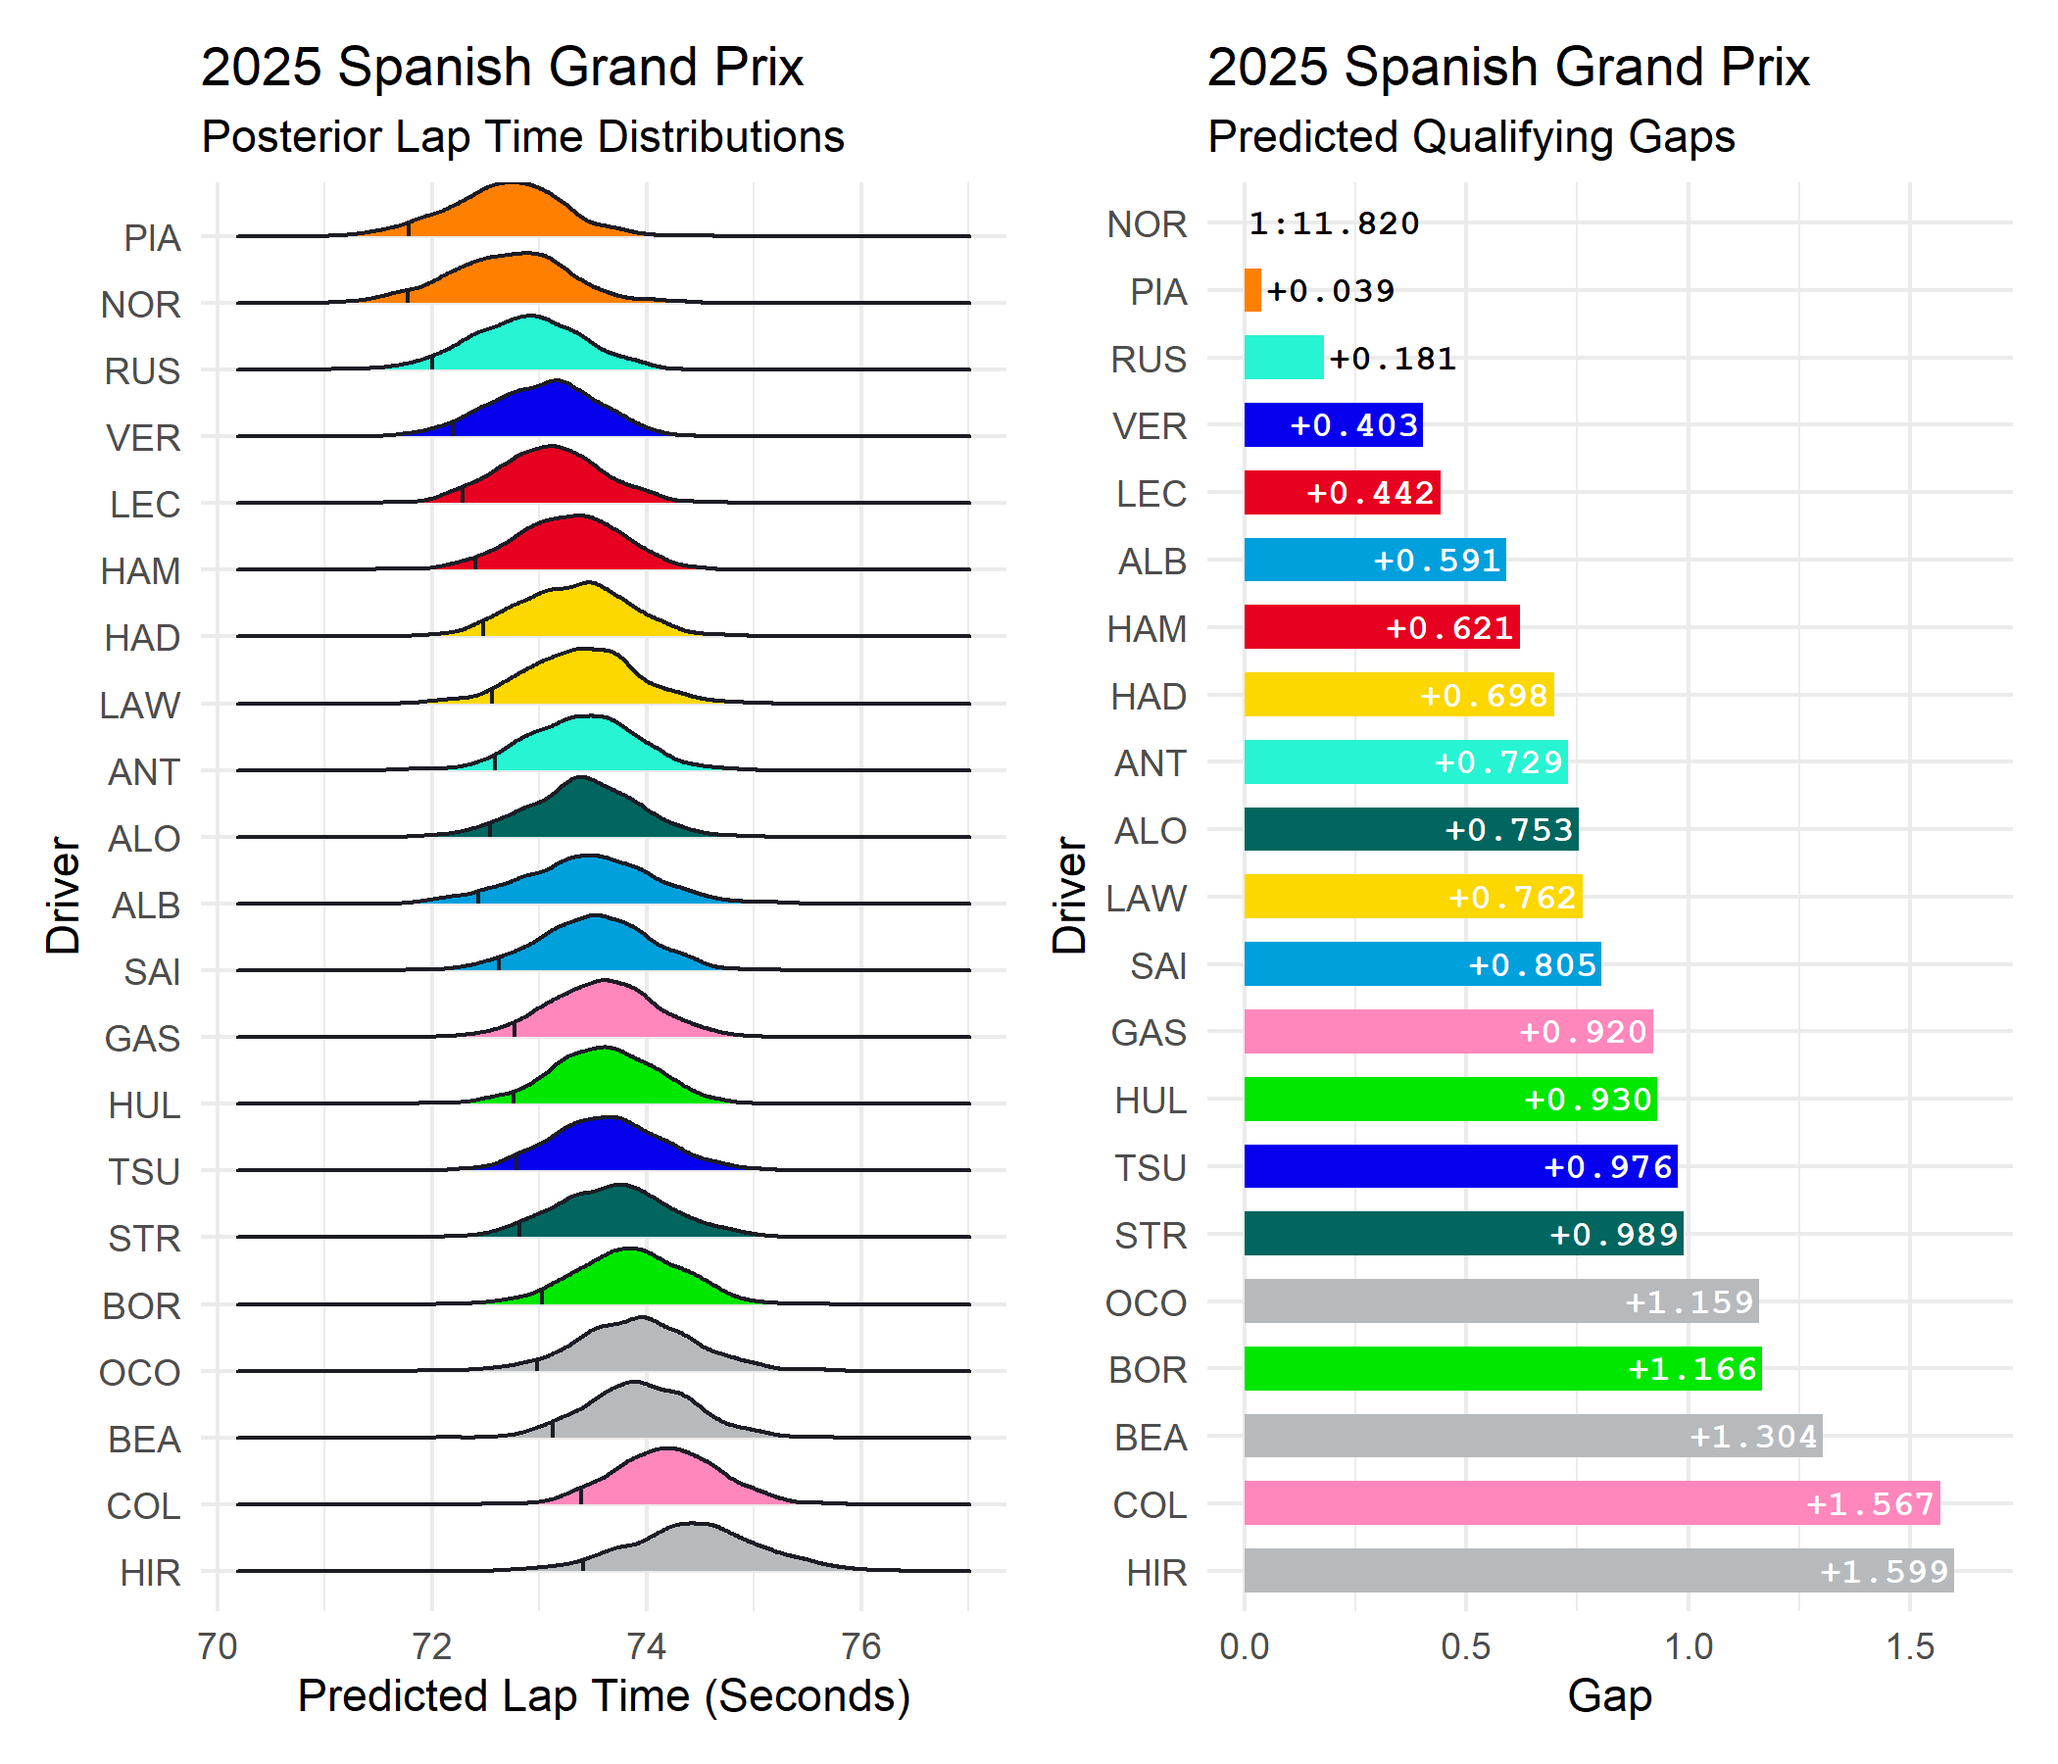
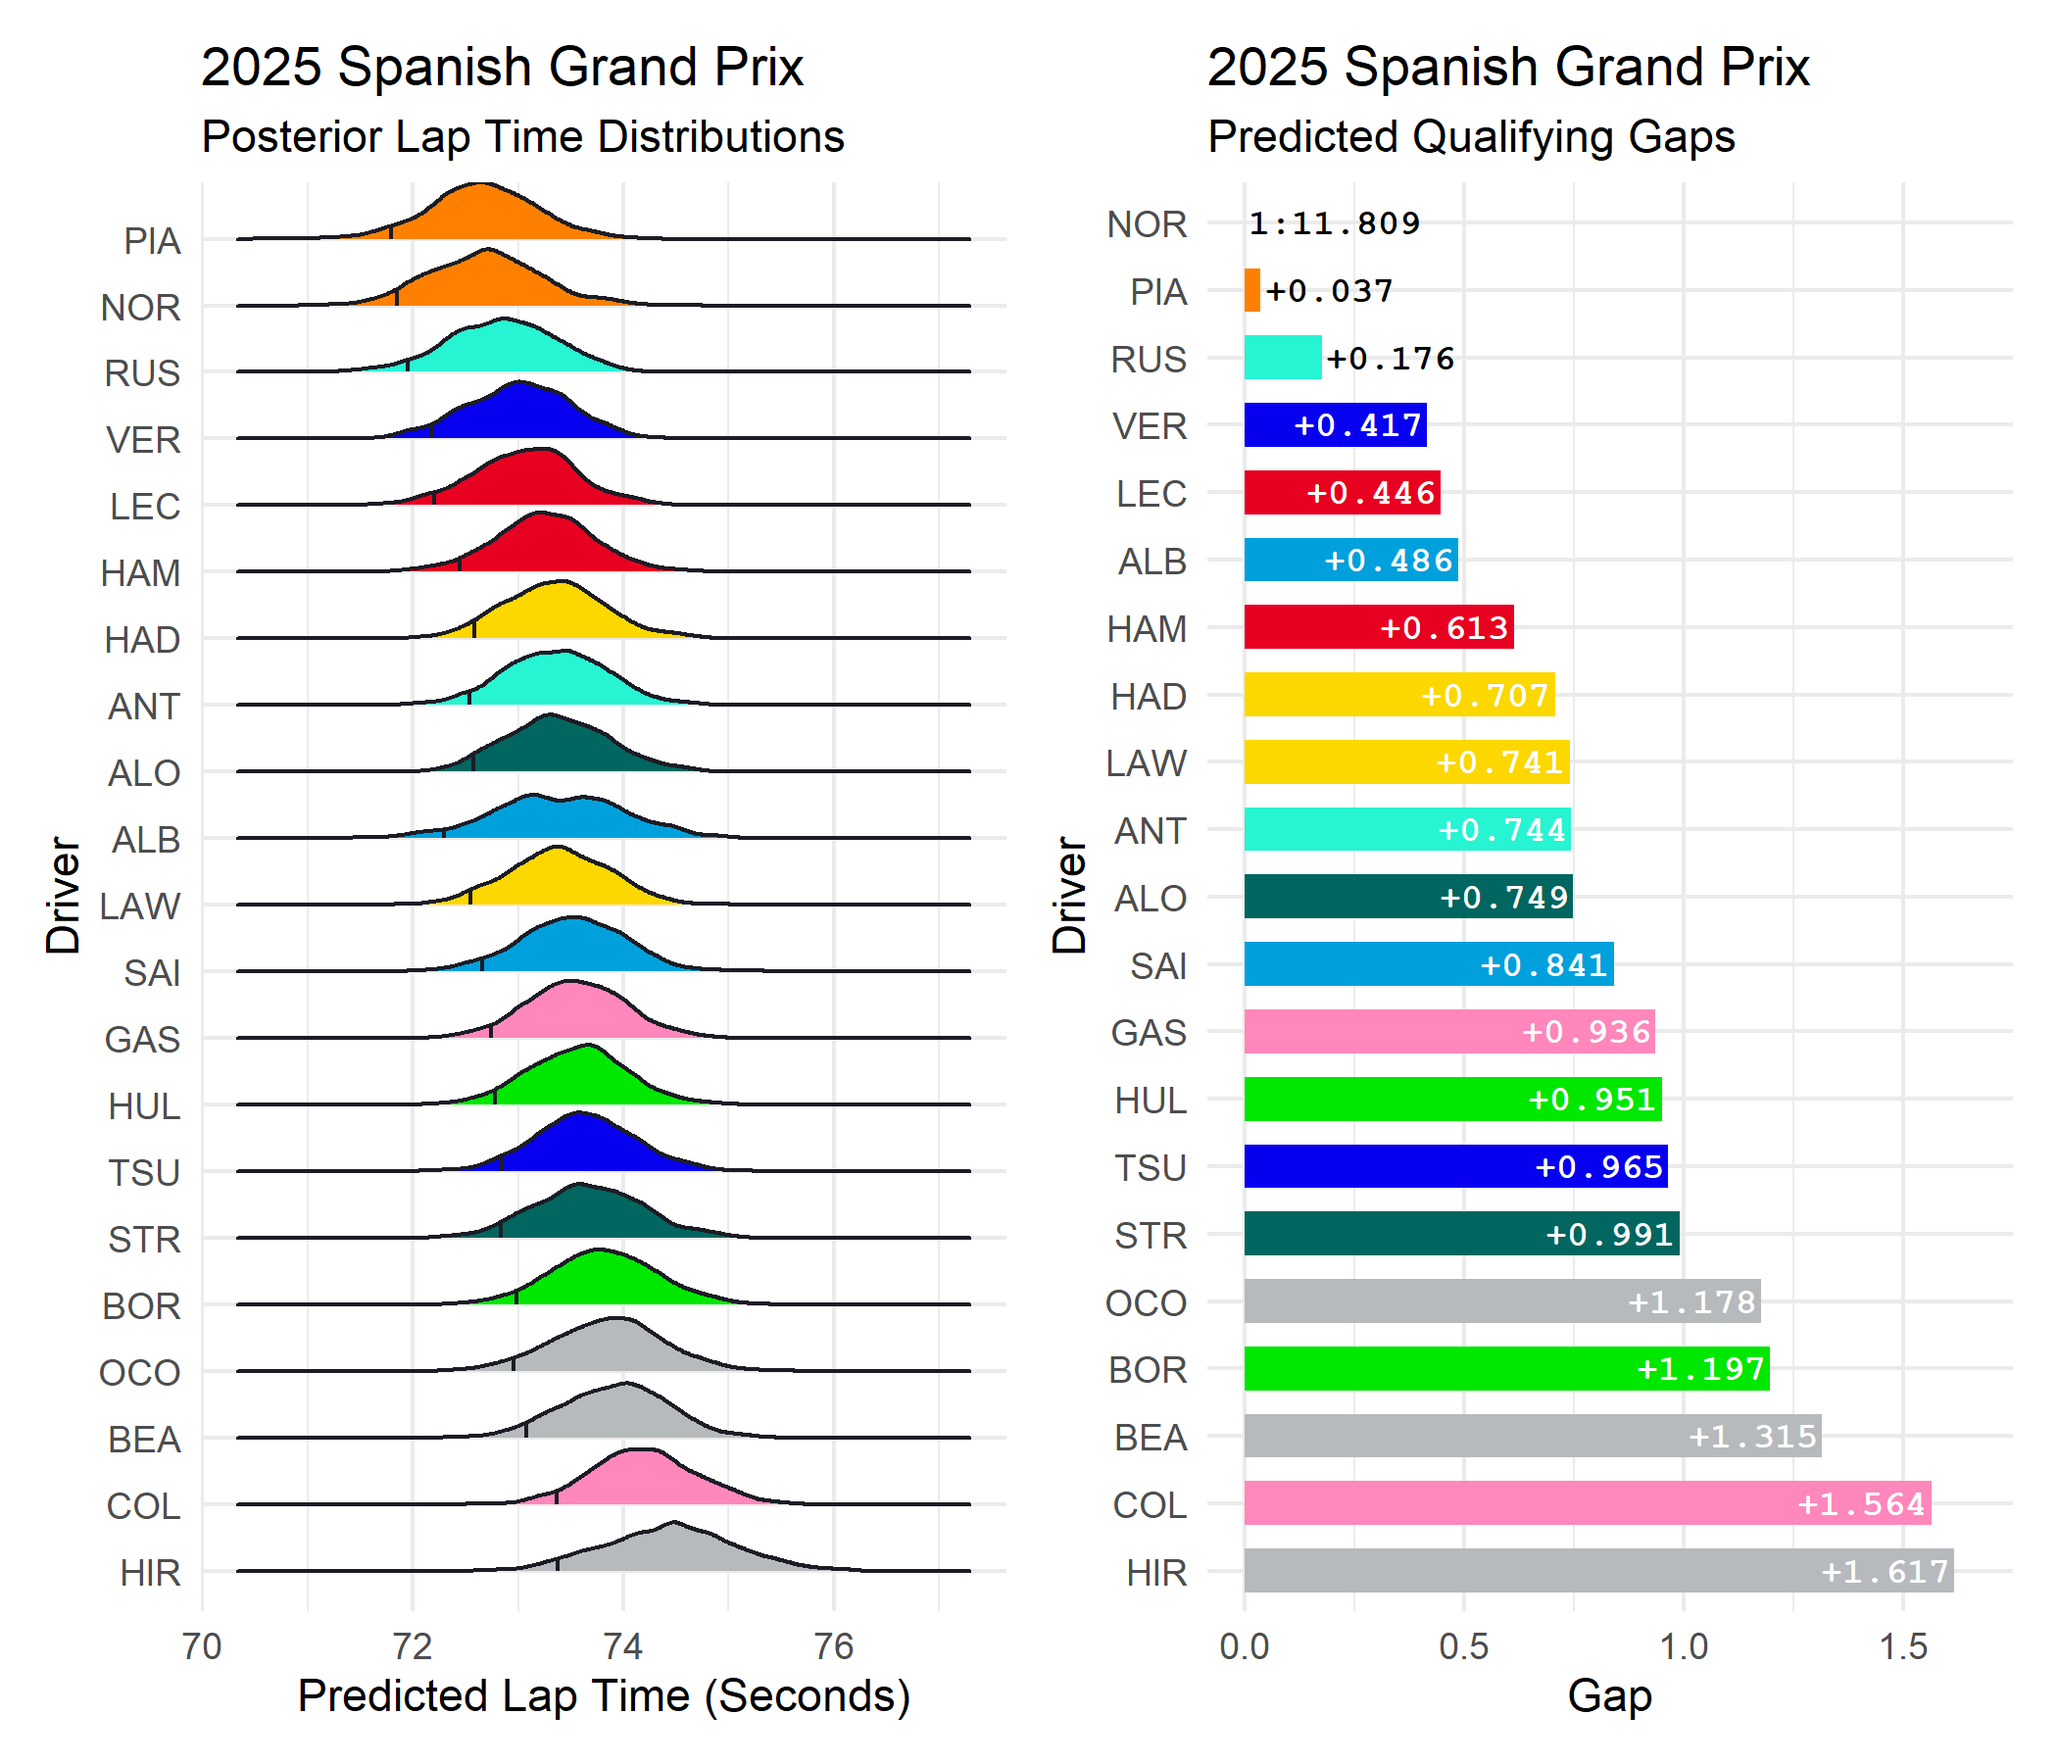
add prior sensitivity analysis

diff --git a/docs/vignettes/bayesian_model_vignette.md b/docs/vignettes/bayesian_model_vignette.md
@@ -1,6 +1,6 @@
 Bayesian statistics model methodology
 ================
-Compiled: 2026-07-24
+Compiled: 2026-07-28
 
 This vignette highlights the reasoning and methodology used to generate
 qualifying predictions using a probabilistic Bayesian hierarchical
@@ -118,9 +118,9 @@ function (data, is_sprint = FALSE)
             log(Weekend_Mins_Elapsed + 1) + Compound + PctOffset + 
                 (1 | Team) + (1 | Driver), sigma ~ log(LapCount))
         model_priors <- c(prior_string(paste0("normal(", intercept_prior, 
-            ", 5)"), class = "Intercept"), prior(exponential(1), 
-            class = "sd"), prior(normal(0, 1), class = "b", dpar = "sigma"), 
-            pct_offset_prior)
+            ", 5)"), class = "Intercept"), prior(student_t(3, 
+            0, 2), class = "sd"), prior(normal(0, 1), class = "b", 
+            dpar = "sigma"), pct_offset_prior)
         if ("MEDIUM" %in% unique(data$Compound)) {
             model_priors <- c(model_priors, prior(normal(0.5, 
                 0.3), class = "b", coef = "CompoundMEDIUM"))
@@ -134,8 +134,8 @@ function (data, is_sprint = FALSE)
         model_formula <- bf(LapTime_sec ~ log(Weekend_Mins_Elapsed + 
             1) + Driver + PctOffset + (1 | Team))
         model_priors <- c(prior_string(paste0("normal(", intercept_prior, 
-            ", 5)"), class = "Intercept"), prior(exponential(1), 
-            class = "sd"), prior(exponential(1), class = "sigma"), 
+            ", 5)"), class = "Intercept"), prior(student_t(3, 
+            0, 2), class = "sd"), prior(exponential(1), class = "sigma"), 
             pct_offset_prior)
     }
     brm(formula = model_formula, data = data, family = gaussian(), 
@@ -197,7 +197,7 @@ The model intercept is centred at the median collected lap time
 regularising prior that prevents prediction of physically impossible lap
 times.
 
-The `PctOffset` prior, is derived from the track-specific intercept to
+The `PctOffset` prior is derived from the track-specific intercept to
 ensure the season-long constructor deficit scales proportionally to the
 lap time duration (`intercept_prior / 100`).
 
@@ -206,6 +206,73 @@ within the input data. In these cases, a physical constraint -
 `normal(0.5, 0.3)` for Medium and `normal(1.0, 0.3)` Hard compounds,
 respectively - are applied to represent the expected lap time delta
 relative to the Soft.
+
+The standard deviation (`prior(student_t(3, 0, 2), class = "sd")`) for
+group-level effects adopts a heavy-tailed distribution. This approach
+allows the model to remain flexible and capture weekend-specific
+deviations of a constructor’s pace against the expected historical
+baseline (defined by the strong, regularising `PctOffset`).
+
+Diagnostic evaluation confirms the intended behaviour of this strategy.
+The vast majority of driver fixed effects and team random effects
+exhibit robust posteriors, showing little sensitivity to either the
+priors or the likelihood.
+
+***Prior Sensitivity Diagnostics***
+
+| variable | prior | likelihood | diagnosis |
+|:---|---:|---:|:---|
+| b_Intercept | 0.0279980 | 0.0372166 | \- |
+| b_logWeekend_Mins_ElapsedP1 | 0.0036424 | 0.1201005 | \- |
+| b_DriverALO | 0.0238017 | 0.0840650 | \- |
+| b_DriverANT | 0.0312885 | 0.0417968 | \- |
+| b_DriverBEA | 0.0372015 | 0.0311784 | \- |
+| b_DriverBOR | 0.0229960 | 0.0331278 | \- |
+| b_DriverCOL | 0.0267757 | 0.0702216 | \- |
+| b_DriverGAS | 0.0264948 | 0.0673541 | \- |
+| b_DriverHAD | 0.0226692 | 0.0440750 | \- |
+| b_DriverHAM | 0.0235524 | 0.0423113 | \- |
+| b_DriverHIR | 0.0380969 | 0.0333448 | \- |
+| b_DriverHUL | 0.0233434 | 0.0329127 | \- |
+| b_DriverLAW | 0.0228163 | 0.0410576 | \- |
+| b_DriverLEC | 0.0235054 | 0.0425976 | \- |
+| b_DriverNOR | 0.0285566 | 0.0517479 | \- |
+| b_DriverOCO | 0.0363729 | 0.0307309 | \- |
+| b_DriverPIA | 0.0287845 | 0.0465329 | \- |
+| b_DriverRUS | 0.0313607 | 0.0425467 | \- |
+| b_DriverSAI | 0.0055903 | 0.1799793 | \- |
+| b_DriverSTR | 0.0240801 | 0.0801802 | \- |
+| b_DriverTSU | 0.0280089 | 0.1072568 | \- |
+| b_DriverVER | 0.0276251 | 0.1064764 | \- |
+| b_PctOffset | 0.0805458 | 0.0367468 | potential strong prior / weak likelihood |
+| sd_Team\_\_Intercept | 0.1082407 | 0.1062946 | potential prior-data conflict |
+| sigma | 0.0127421 | 0.6358386 | \- |
+| Intercept | 0.0177736 | 0.1154031 | \- |
+| r_Team\[Alpine,Intercept\] | 0.0259039 | 0.0857941 | \- |
+| r_Team\[Aston.Martin,Intercept\] | 0.0254107 | 0.0836116 | \- |
+| r_Team\[Ferrari,Intercept\] | 0.0217237 | 0.0257845 | \- |
+| r_Team\[Haas.F1.Team,Intercept\] | 0.0438221 | 0.0479657 | \- |
+| r_Team\[Kick.Sauber,Intercept\] | 0.0271154 | 0.0519769 | \- |
+| r_Team\[McLaren,Intercept\] | 0.0240661 | 0.0318159 | \- |
+| r_Team\[Mercedes,Intercept\] | 0.0313605 | 0.0387786 | \- |
+| r_Team\[Racing.Bulls,Intercept\] | 0.0216517 | 0.0546137 | \- |
+| r_Team\[Red.Bull.Racing,Intercept\] | 0.0258506 | 0.0909589 | \- |
+| r_Team\[Williams,Intercept\] | 0.0294176 | 0.0462919 | \- |
+
+Strong prior / weak likelihood for `b_PctOffset` confirms the prior is
+applying tight constraints on the lap time data based on the historic
+baseline to prevent overfitting. A prior-data conflict flag on
+`sd_Team__Intercept` is expected in hierarchical models with a limited
+number of groups that subsequently struggles to define population-level
+variance, causing a heavy reliance on the flexibility of the `student_t`
+prior.
+
+Finally, residual variance is constrained using an `expontential(1)`
+prior, to reflect the fact that lap-to-lap variance is expected to be
+small for peak qualifying laps. As discussed, sprint weekend formats
+remodel this variance as a function of the lap count, with an
+uninformative normal prior, allowing uncertainty to scale dynamically
+with the limited available data.
 
 ### Generating qualifying predictions
 
